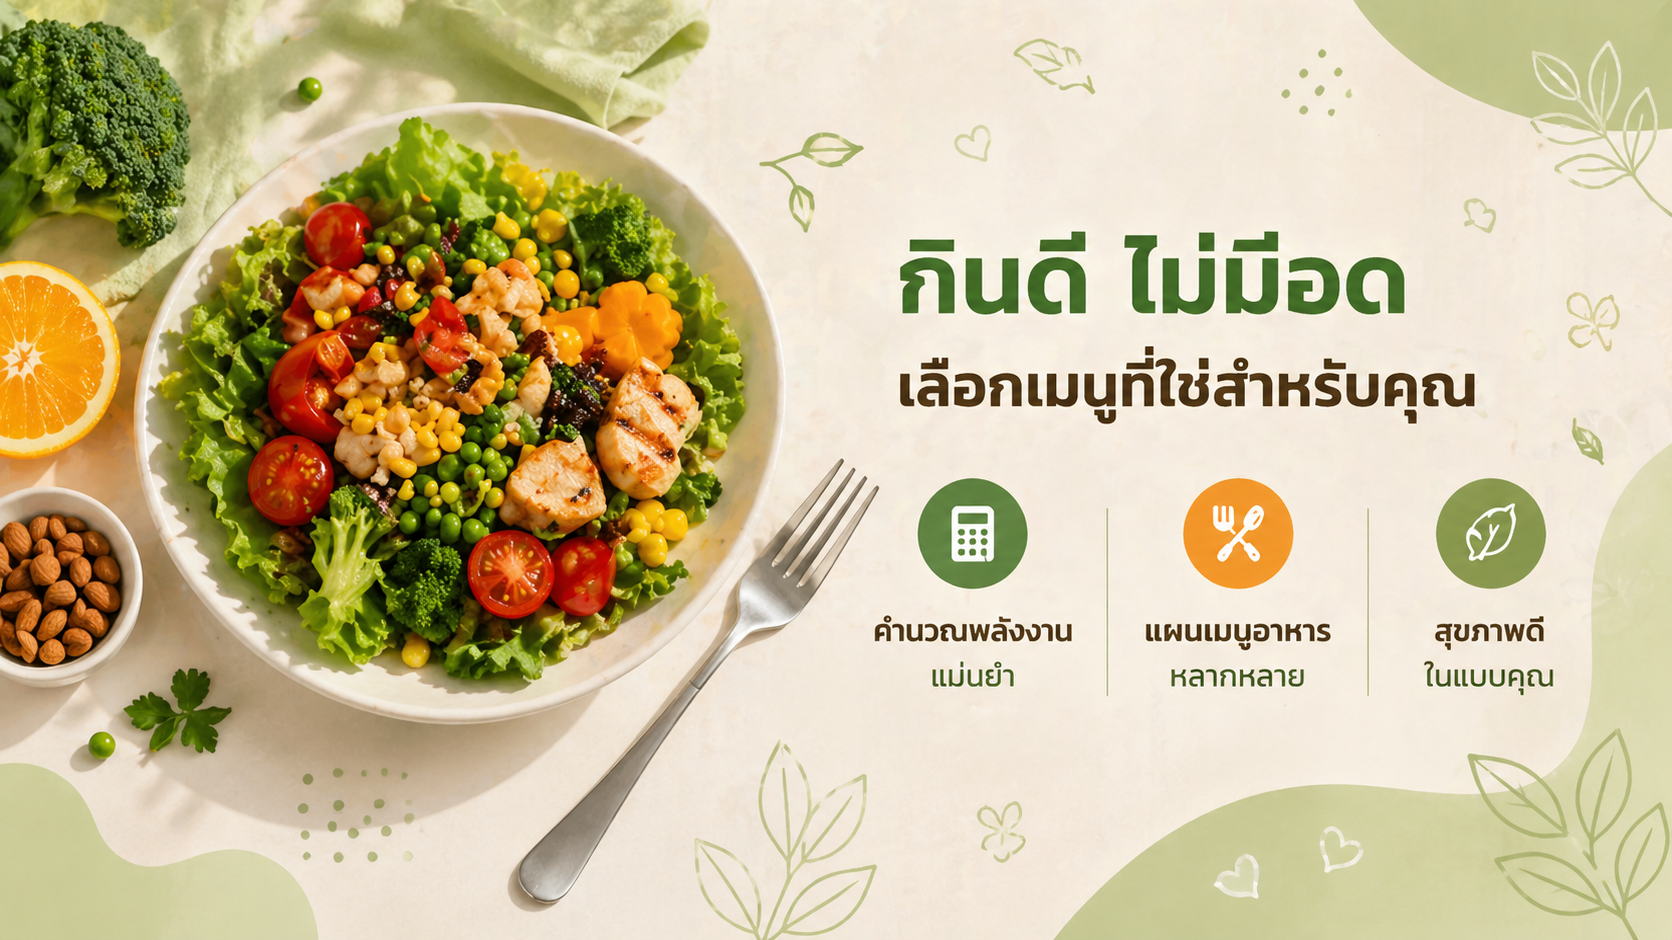
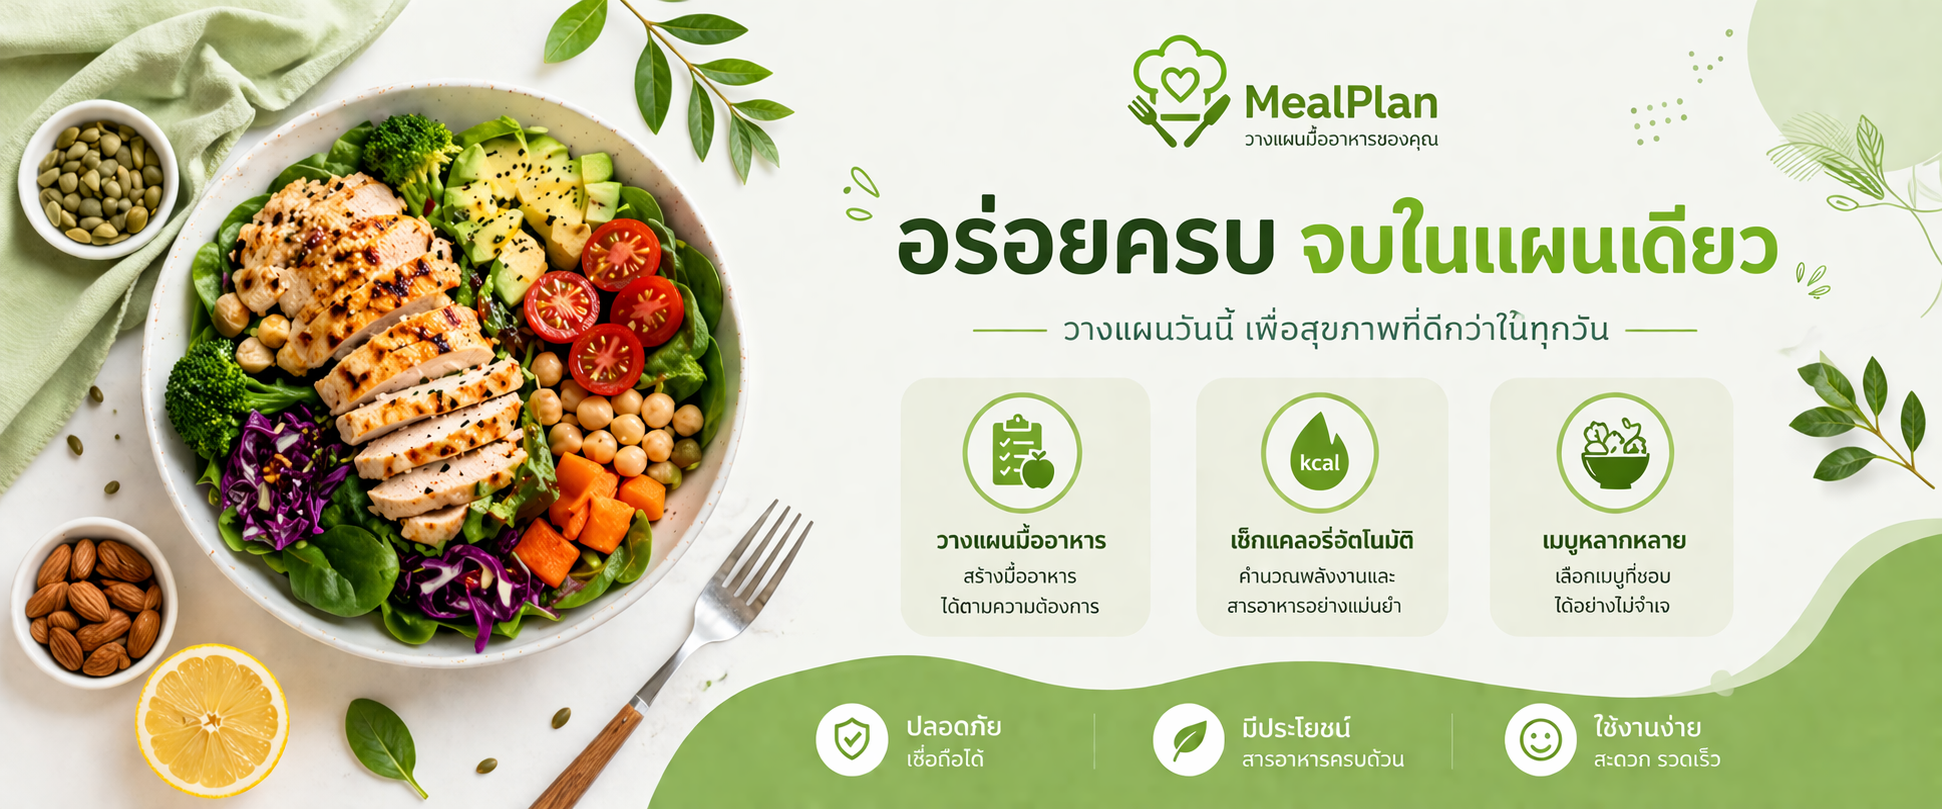
แก้ app.css + รูปสไลด์

diff --git a/src/App.css b/src/App.css
@@ -103,6 +103,7 @@ body {
   position: fixed;
   top: 0;
   width: 100%;
+  height: 80px;
   z-index: 1000;
   background: rgba(255, 248, 240, 0.9);
   backdrop-filter: blur(10px);
@@ -515,21 +516,16 @@ body {
 }
 
 .slideshow {
-  position: relative;
   width: 100%;
-  margin-bottom: 35px;
-
-  /* เอาการล็อกความสูงออก */
-  display: flex;
-  justify-content: center;
+  height: calc(100vh - 80px);
+  margin-top: 80px;
+  overflow: hidden;
 }
 
-/* ใช้กับ <img> */
 .slide-img {
-  width: auto;
-  height: auto;
-  max-width: 100%;
-  display: block;
+  width: 100%;
+  height: 100%;
+  object-fit: cover;
 }
 
 .text-center {
@@ -554,26 +550,25 @@ body {
 
 .view-more {
   position: absolute;
-  bottom: 25px;
-  right: 25px;
-  background: linear-gradient(135deg, #ff8c42, #ffd166);
-  color: white;
-  padding: 14px 28px;
-  border-radius: 14px;
-  font-size: 1rem;
-  font-weight: 600;
+  bottom: 20px;
+  right: 20px;
+  background: rgba(255, 140, 66, 0.9);
+  color: #fff;
+  padding: 10px 18px;
+  border-radius: 10px;
+  font-size: 0.9rem;
+  font-weight: 500;
   text-decoration: none;
-  box-shadow: 0 12px 30px rgba(255, 140, 66, 0.6);
-  backdrop-filter: blur(6px);
-  transition: all 0.25s ease;
+  box-shadow: 0 6px 18px rgba(255, 140, 66, 0.3);
+  backdrop-filter: blur(8px);
+  transition: all 0.2s ease;
 }
 
 .view-more:hover {
-  transform: translateY(-4px) scale(1.05);
-  box-shadow: 0 18px 40px rgba(255, 140, 66, 0.8);
-  filter: brightness(1.1);
+  transform: translateY(-2px);
+  box-shadow: 0 10px 22px rgba(255, 140, 66, 0.4);
+  background: rgba(255, 140, 66, 1);
 }
-
 
 .nutrition-card {
   max-width: 650px;
